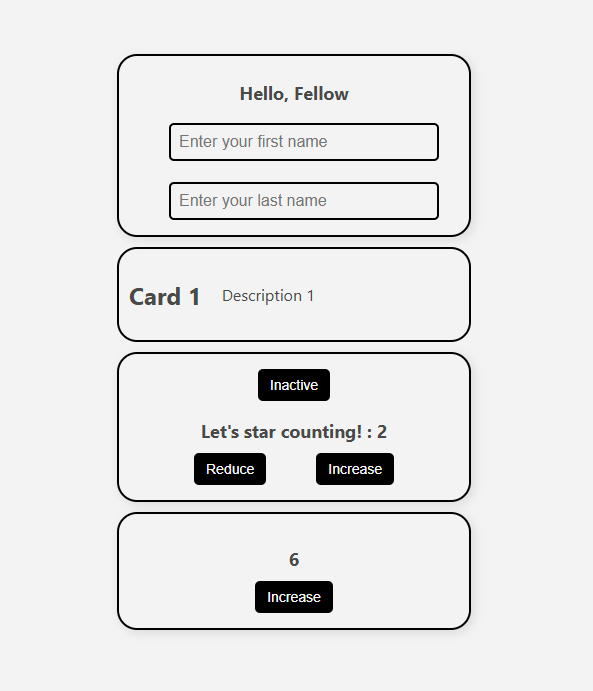
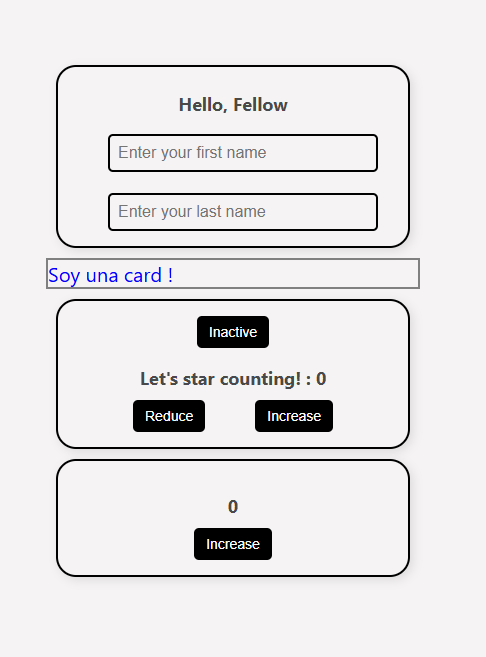
ReactJS Estilo en Linea

diff --git a/src/components/Card/Card.jsx b/src/components/Card/Card.jsx
@@ -2,7 +2,7 @@
 
 const Card = () => {
     return (
-        <div style={{ color: "blue", fontSize: "20px" }}>
+        <div style={{ color: "blue", fontSize: "20px", border: "2px solid grey" }}>
             Soy una card !
         </div>
     )
